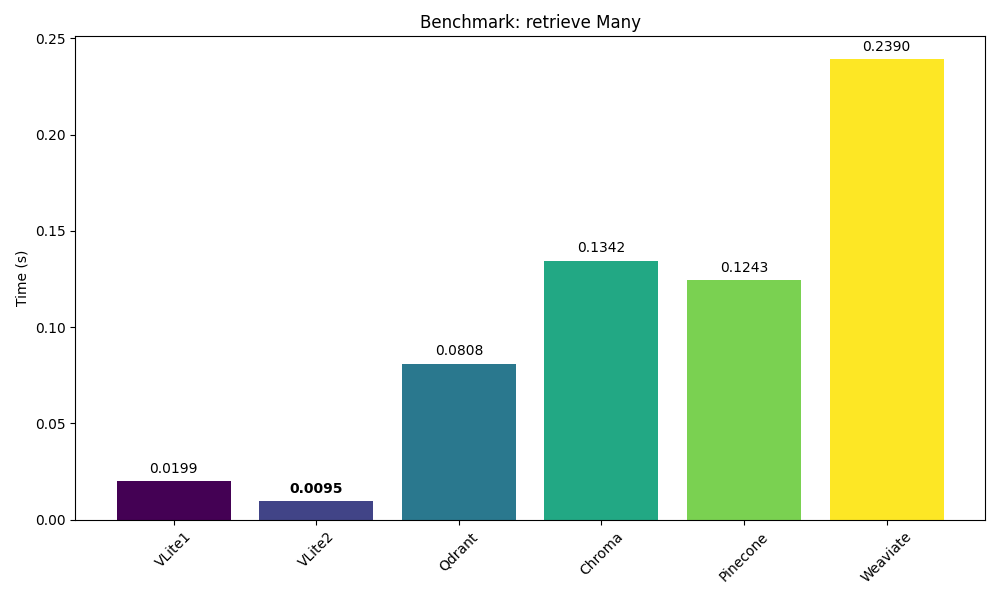
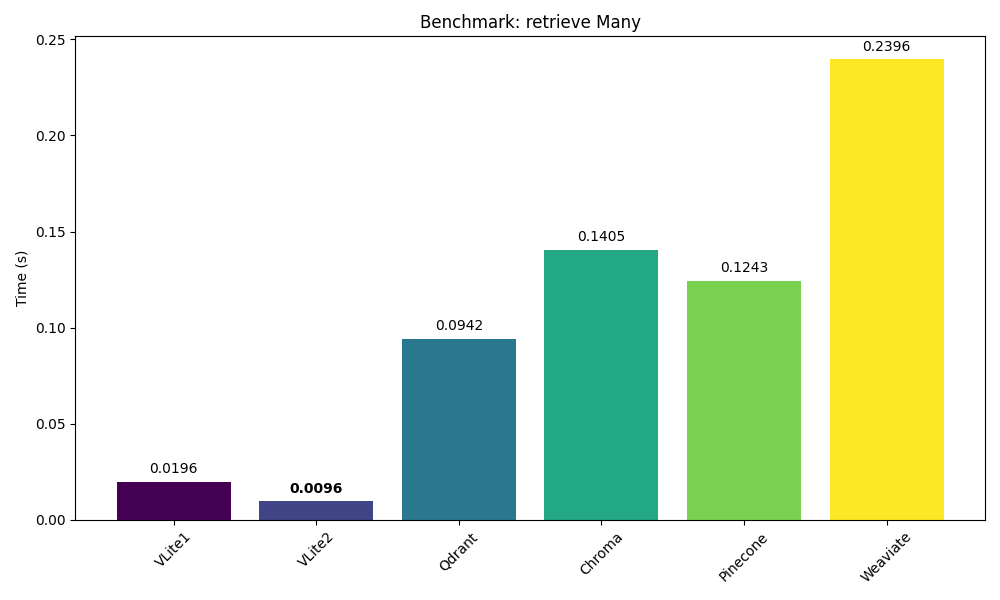
k=5 results

diff --git a/qdrant_test.py b/qdrant_test.py
@@ -19,7 +19,7 @@ def ingest_one_q(q):
 def retrieve_q(q, text):
     vectors = SentenceTransformer(model_name).encode(text).tolist()
     search_result = q.search(
-        collection_name="test_collection", query_vector=vectors
+        collection_name="test_collection", query_vector=vectors, limit=k
     )
 
 def ingest_many_q(q):

diff --git a/weaviate_test.py b/weaviate_test.py
@@ -21,7 +21,8 @@ def ingest_one_w(questions):
 def retrieve_w(questions, text):
     vector = SentenceTransformer(model_name).encode(text).tolist()
     response = questions.query.near_vector(
-        near_vector=vector
+        near_vector=vector,
+        limit=k
     )
 
 def ingest_many_w(questions):

diff --git a/constants.py b/constants.py
@@ -1,6 +1,7 @@
 from vlite2 import EmbeddingModel
 
 num_executions: int = 100
+k: int = 5
 dimension: int = EmbeddingModel().dimension
 model_name: str = "all-MiniLM-L6-v2"
 SHORT_DATA: str = "Hello! My name is Ray. How are you?"

diff --git a/vlite1_test.py b/vlite1_test.py
@@ -11,7 +11,7 @@ def ingest_one_v1(v):
     v.memorize(SHORT_DATA)
 
 def retrieve_v1(v, text):
-    v.remember(text)
+    v.remember(text, top_k=k)
 
 def ingest_many_v1(v):
     v.memorize(text=LONG_DATA)

diff --git a/pinecone_test.py b/pinecone_test.py
@@ -22,7 +22,7 @@ def retrieve_pc(index, text):
     query_response = index.query(
         namespace="ns0",
         vector=vector,
-        top_k=10
+        top_k=k
     )
 
 def ingest_many_pc(index):

diff --git a/vlite2_test.py b/vlite2_test.py
@@ -11,7 +11,7 @@ def ingest_one_v2(v):
     v.ingest(SHORT_DATA)
 
 def retrieve_v2(v, text):
-    v.retrieve(text)
+    v.retrieve(text, top_k=k)
 
 def ingest_many_v2(v):
     v.ingest(text=LONG_DATA)

diff --git a/chroma_test.py b/chroma_test.py
@@ -20,6 +20,7 @@ def ingest_one_cdb(cdb):
 def retrieve_cdb(cdb, text):
     results = cdb.query(
         query_embeddings=default_ef(text),
+        n_results=k
     )
 
 def ingest_many_cdb(cdb):

diff --git a/README.md b/README.md
@@ -12,7 +12,9 @@ goal here is to simulate what a typical user would do when spinning up a RAG app
 Thus, for managed servies running remotely (Pinecone and Weaviate), we use the base free version. 
 All the below results are from 100 averaged iterations on a 16GB M2 Macbook Pro plugged into power. 
 Chunking and chopping is normalized across all tests (same function used for all tests). The same embedding model
-(all-MiniLM-L6-v2) used across all tests as well (except chroma, where default embedding function used, but this is actually still all-MiniLM-L6-v2 on the backend per [this](https://docs.trychroma.com/embeddings)). All tests are designed to be the fastest possible methods for ingestion and retrieval in each given database per the latest documentation for [Weaviate](https://weaviate.io/developers/weaviate/manage-data/import), [Pinecone](https://docs.pinecone.io/docs/upsert-data), [Chroma](https://docs.trychroma.com/usage-guide), and [Qdrant](https://github.com/qdrant/qdrant-client). If these are not the fastest methods a typical user would use to ingest or retrieve from the database, please let me know!
+(all-MiniLM-L6-v2) used across all tests as well (except chroma, where default embedding function used, but this is actually still all-MiniLM-L6-v2 on the backend per [this](https://docs.trychroma.com/embeddings)). 
+When retrieving, the top k results is kept constant with k=5.
+All tests are designed to be the fastest possible methods for ingestion and retrieval in each given database per the latest documentation for [Weaviate](https://weaviate.io/developers/weaviate/manage-data/import), [Pinecone](https://docs.pinecone.io/docs/upsert-data), [Chroma](https://docs.trychroma.com/usage-guide), and [Qdrant](https://github.com/qdrant/qdrant-client). If these are not the fastest methods a typical user would use to ingest or retrieve from the database, please let me know!
 
 **Tests Conducted:**
 * *ingest One*: time to ingest one constant entry into the database
@@ -38,6 +40,13 @@ average user starting out does not directly inference the index, but rather a pr
 ![ingest Many](./results/benchmark_3_Ingest%20Many.png)
 ![retrieve One](./results/benchmark_2_Retrieve%20One.png)
 ![retrieve Many](./results/benchmark_4_Retrieve%20Many.png)
+
+# Conclusions
+* VLite2 is the fastest database for retrieval time by a large margin (2x over VLite)
+* For ingestion, VLite is the fastest, since they don't index vectors (rather calling `np.vstack` to store vectors)
+* VLite2 is the easiest to use, with two exposed functions for ingestion and retrieval, fastest setup time, and fastest install time
+    * Look at the code base for the complexity to use other databases; many steps to set up and inference the db
+* Pinecone's GCP starter environment crashed frequently during testing of this (giving 500 often)
 
 # Run Instructions / Files
 * Can run each file individually, or run all at once with `all_tests.sh`
